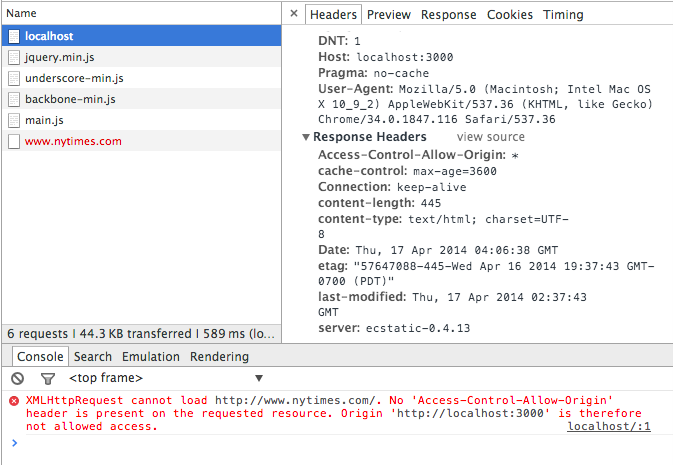
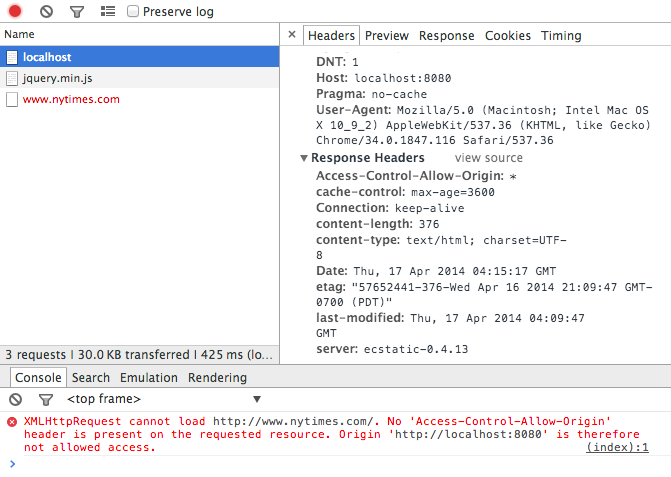
Update screen and readme

Changed region(s): [[0.0, 0.0, 1.0, 0.7527], [0.0, 0.6925, 1.0, 0.9935]]

diff --git a/README.md b/README.md
@@ -10,3 +10,6 @@ http-server --cors
 ```
 
 Should work, right?
+
+Instead we get this:
+![screenshot of the issue](./screen.png)
